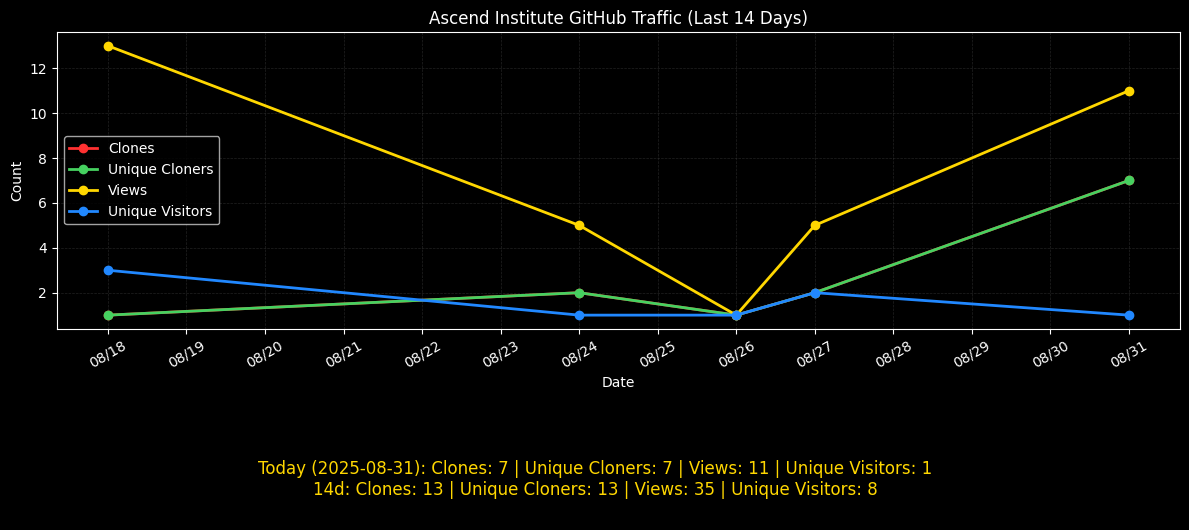
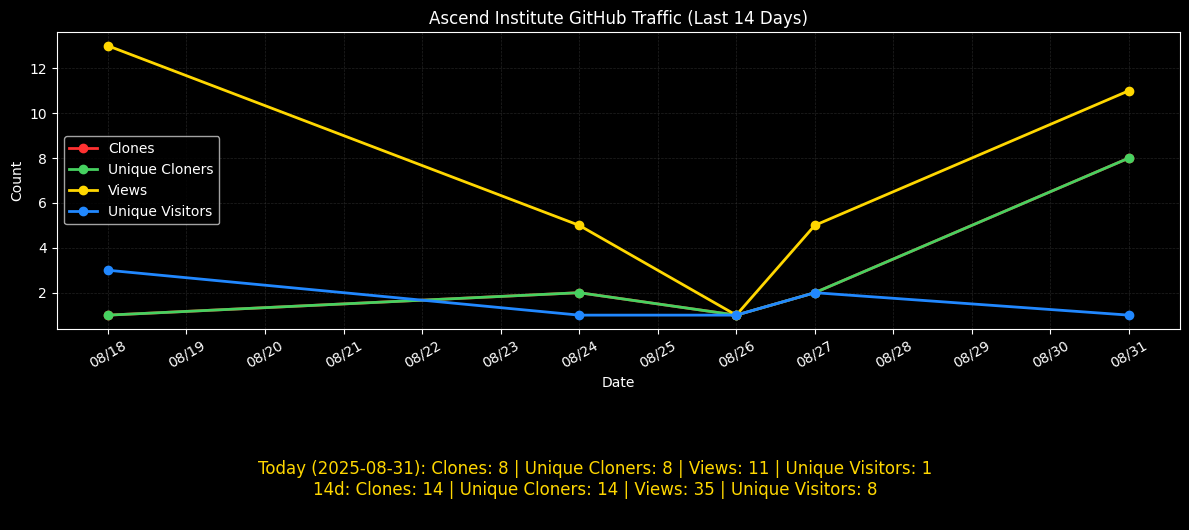
Update traffic data and graph

Changed region(s): [[0.6846, 0.2717, 0.9647, 0.5434], [0.3423, 0.8755, 0.7468, 0.9358]]

diff --git a/docs/graph/traffic_totals.md b/docs/graph/traffic_totals.md
@@ -1,6 +1,6 @@
 
 **GitHub Traffic Totals**
 
-- **Today (2025-08-31):** Clones: 7 | Unique Cloners: 7 | Views: 11 | Unique Visitors: 1
-- **Last 14 days:** Clones: 13 | Unique Cloners: 13 | Views: 35 | Unique Visitors: 8
+- **Today (2025-08-31):** Clones: 8 | Unique Cloners: 8 | Views: 11 | Unique Visitors: 1
+- **Last 14 days:** Clones: 14 | Unique Cloners: 14 | Views: 35 | Unique Visitors: 8
 - **Lifetime:** Clones: 29 | Unique Cloners: 28 | Views: 186 | Unique Visitors: 43
